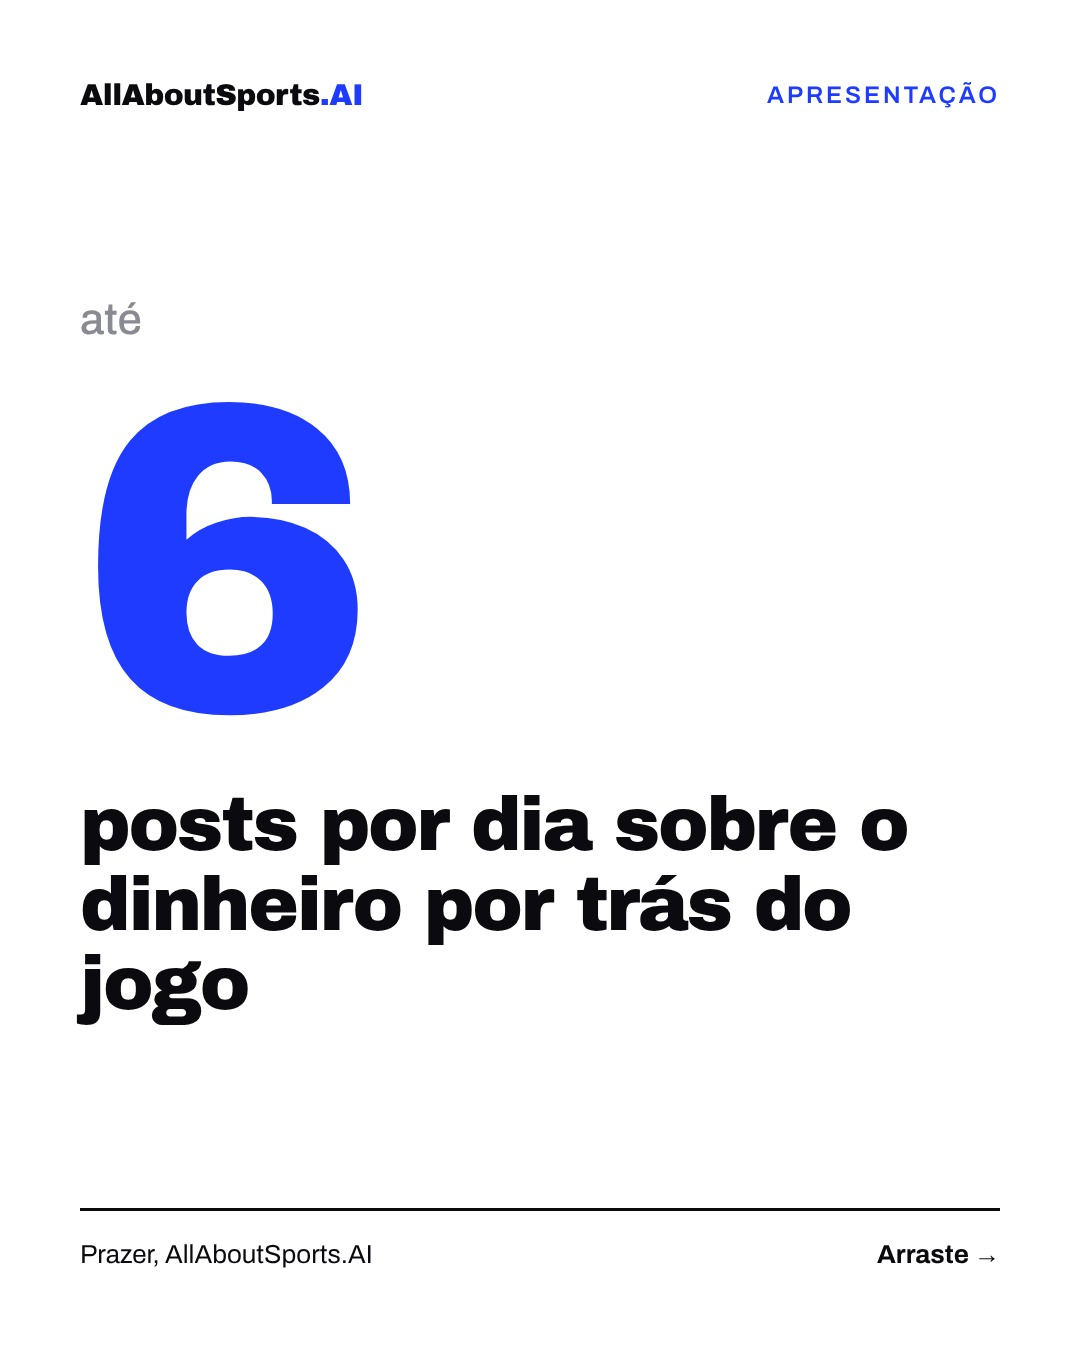
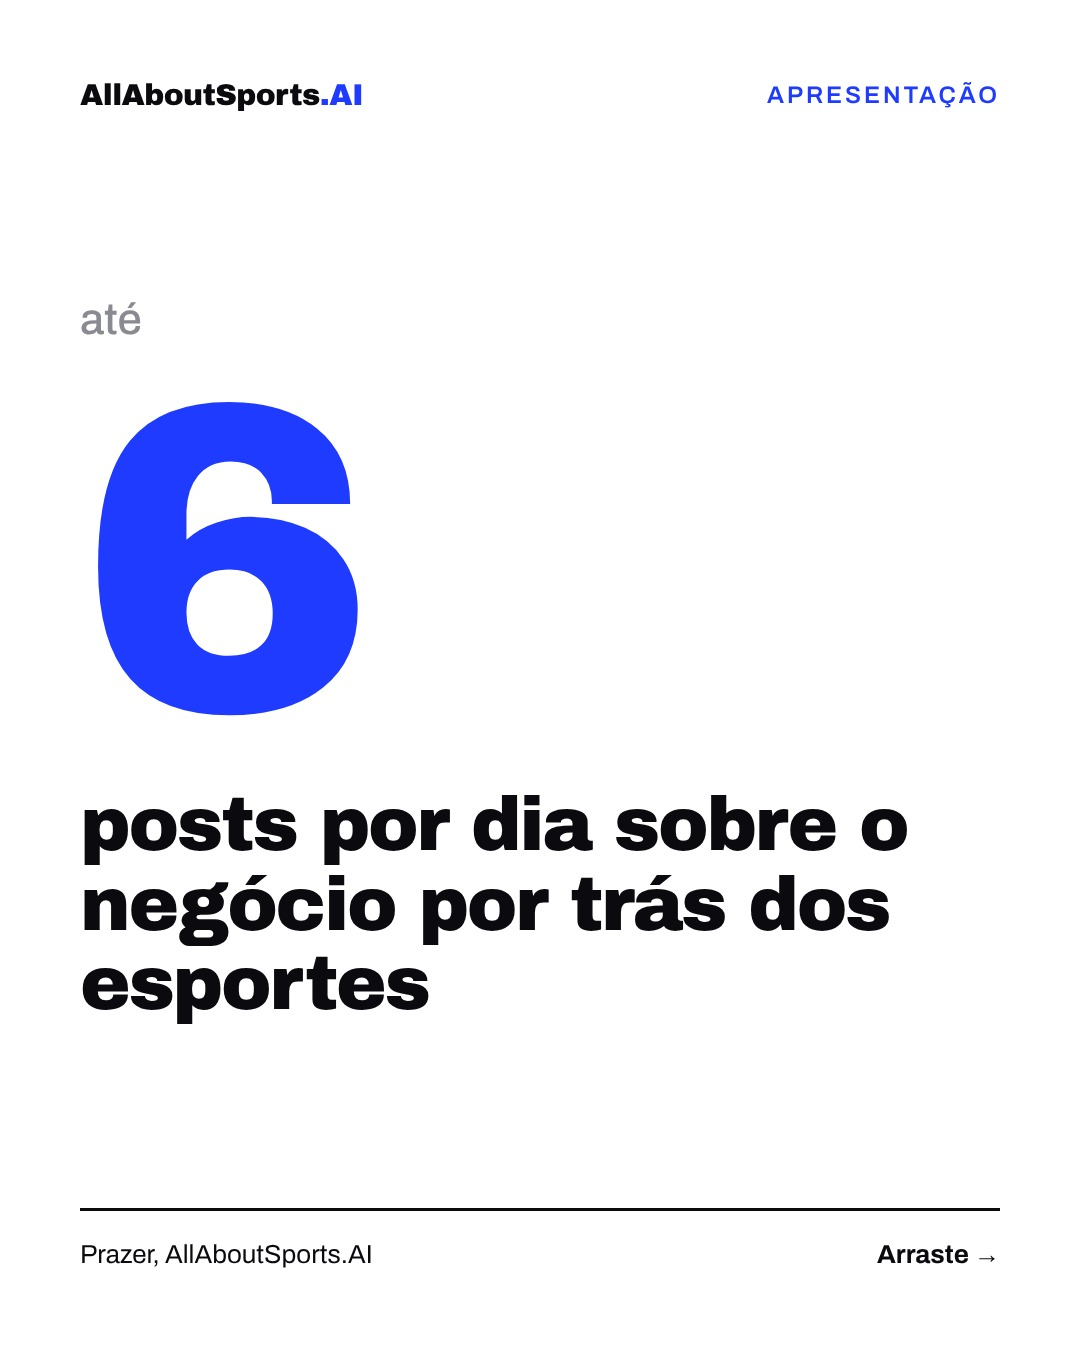
Posicionamento: o negócio por trás dos esportes
Atualiza README e post de apresentação; pilar 5 vira
Tech, produto & parcerias.

Claude-Session: https://claude.ai/code/session_01XMb8DuFYgjR3QryshAKs3c

Changed region(s): [[0.0611, 0.6533, 0.825, 0.7778]]

diff --git a/posts/apresentacao/gerar.py b/posts/apresentacao/gerar.py
@@ -24,13 +24,13 @@ slides = [
         '<div class="top"><span class="brand">AllAboutSports<b>.AI</b></span><span class="pillar">Apresentação</span></div>'
         '<div class="cover-hero"><span class="cover-prefix">até</span>'
         '<span class="cover-number fit-w">6</span>'
-        '<span class="cover-title">posts por dia sobre o dinheiro por trás do jogo</span></div>'
+        '<span class="cover-title">posts por dia sobre o negócio por trás dos esportes</span></div>'
         + r.a_foot("Prazer, AllAboutSports.AI", "Arraste →"),
         "a",
     ),
     r.page(
         top(2) + '<div class="body">' + label("O que é")
-        + '<p class="text">As principais notícias de negócios do esporte mundial, explicadas em português e em menos de um minuto por post.</p></div>'
+        + '<p class="text">As principais notícias de negócios do esporte mundial: deals, mídia, marcas, tecnologia e parcerias, explicadas em português.</p></div>'
         + r.a_foot("NFL, NBA, Premier League, F1, UFC, tênis e mais"),
         "a",
     ),
@@ -41,9 +41,9 @@ slides = [
             ("Mídia & streaming", "Direitos de transmissão e audiência"),
             ("Marcas & patrocínio", "Naming rights, camisas, atletas como marca"),
             ("Ligas & modelos de negócio", "Teto salarial, novas ligas, SAF"),
-            ("Tech & inovação", "Dados, IA, apostas e a experiência do fã"),
+            ("Tech, produto & parcerias", "Dados, IA, parcerias entre marcas e a experiência do fã"),
         ]) + "</div>"
-        + r.a_foot("Sempre com um número na frente"),
+        + r.a_foot("Direto ao ponto, com fonte em todo post"),
         "a",
     ),
     r.page(

diff --git a/README.md b/README.md
@@ -1,6 +1,6 @@
 # AllAboutSports.AI
 
-O dinheiro por trás do jogo, explicado em português. Perfil de Instagram com notícias globais de sports business, produzido por agentes no Claude com revisão humana.
+O negócio por trás dos esportes, explicado em português. Perfil de Instagram com notícias globais de sports business, produzido por agentes no Claude com revisão humana.
 
 ## Como o repositório funciona
 
